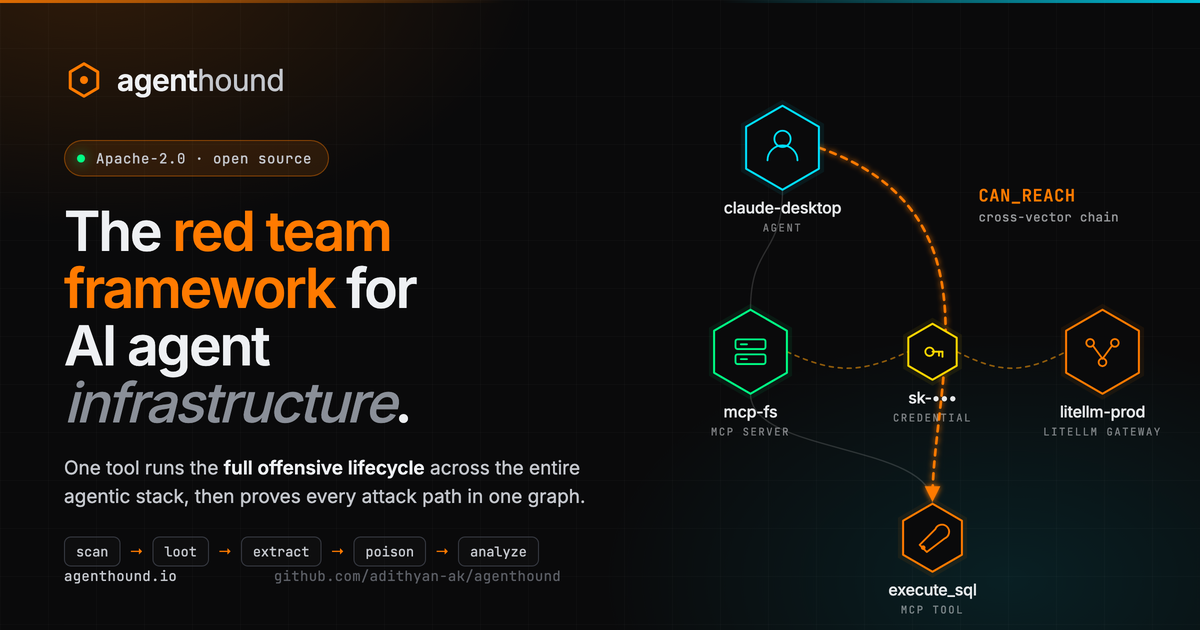
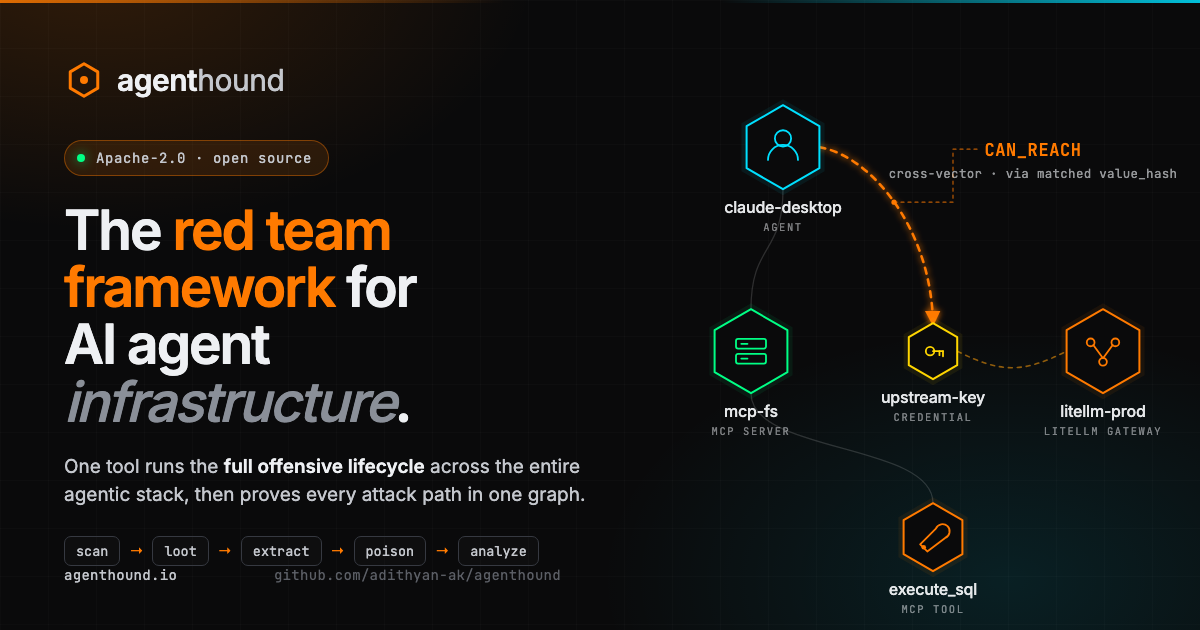
chore: refresh site metadata and social preview

diff --git a/og-template.html b/og-template.html
@@ -1,7 +1,8 @@
-<!doctype html>
+<!DOCTYPE html>
 <html lang="en">
 <head>
 <meta charset="utf-8">
+<title>AgentHound — The red team framework for AI agent infrastructure</title>
 <link rel="preconnect" href="https://fonts.googleapis.com">
 <link rel="preconnect" href="https://fonts.gstatic.com" crossorigin>
 <link href="https://fonts.googleapis.com/css2?family=Inter:wght@400;500;600;700&amp;family=JetBrains+Mono:wght@400;500;600&amp;display=swap" rel="stylesheet">
@@ -117,7 +118,7 @@
   var nodes=[
     {id:'claude',label:'claude-desktop',kind:'agent',r:42,x:150,y:96},
     {id:'mcp',   label:'mcp-fs',        kind:'mcp',  r:42,x:118,y:300},
-    {id:'cred',  label:'sk-•••',        kind:'cred', r:28,x:300,y:300},
+    {id:'cred',  label:'upstream-key',  kind:'cred', r:28,x:300,y:300},
     {id:'gw',    label:'litellm-prod',  kind:'gw',   r:42,x:470,y:300},
     {id:'tool',  label:'execute_sql',   kind:'tool', r:34,x:300,y:486}
   ];
@@ -150,13 +151,12 @@
   }
   edge(bot(byId.claude),top(byId.mcp),{stroke:'rgba(234,235,238,.16)','stroke-width':'1.3'});
   edge(bot(byId.mcp),top(byId.tool),{stroke:'rgba(234,235,238,.16)','stroke-width':'1.3'});
-  credEdge(byId.mcp,byId.cred);
   credEdge(byId.cred,byId.gw);
 
-  // CAN_REACH arc: claude -> through cred -> execute_sql
-  var s=lat(byId.claude,'r'),t=top(byId.tool),via=byId.cred;
+  // CAN_REACH composite edge: AgentInstance -> upstream Credential
+  var s=lat(byId.claude,'r'),t=top(byId.cred);
   var reach=el('path',{fill:'none',stroke:'#ff7a00','stroke-width':'2.6','stroke-linecap':'round','stroke-dasharray':'6 6','marker-end':'url(#ah)',filter:'url(#glow)',
-    d:'M '+s.x+' '+s.y+' C '+(via.x+70)+' '+(s.y+64)+' '+via.x+' '+(via.y+34)+' '+t.x+' '+(t.y-5)});
+    d:'M '+s.x+' '+s.y+' C 236 104 298 175 '+t.x+' '+t.y});
   gE.appendChild(reach);
 
   // node icons (compact)
@@ -184,9 +184,11 @@
 
   // CAN_REACH annotation
   var an=el('g',{});
-  var ax=346,ay=150;
-  an.appendChild(el('text',{x:ax,y:ay,fill:'#ff7a00','font-family':'JetBrains Mono,monospace','font-size':'17','font-weight':'600','letter-spacing':'.6px'})).textContent='CAN_REACH';
-  an.appendChild(el('text',{x:ax,y:ay+20,fill:'rgba(238,240,243,.62)','font-family':'JetBrains Mono,monospace','font-size':'12.5','letter-spacing':'.3px'})).textContent='cross-vector chain';
+  var ax=400,ay=105;
+  an.appendChild(el('path',{d:'M 261 151 H 320 V 98 H 345',fill:'none',stroke:'rgba(255,122,0,.72)','stroke-width':'1.2','stroke-dasharray':'3 4','stroke-linecap':'round','stroke-linejoin':'round'}));
+  an.appendChild(el('circle',{cx:'261',cy:'151',r:'2.6',fill:'#ff7a00'}));
+  an.appendChild(el('text',{x:ax,y:ay,fill:'#ff7a00','font-family':'JetBrains Mono,monospace','font-size':'17','font-weight':'600','letter-spacing':'.6px','text-anchor':'middle'})).textContent='CAN_REACH';
+  an.appendChild(el('text',{x:ax,y:ay+22,fill:'rgba(238,240,243,.62)','font-family':'JetBrains Mono,monospace','font-size':'12.5','letter-spacing':'.3px','text-anchor':'middle'})).textContent='cross-vector · via matched value_hash';
   svg.appendChild(an);
 })();
 </script>

diff --git a/404.html b/404.html
@@ -1,10 +1,10 @@
-<!doctype html>
+<!DOCTYPE html>
 <html lang="en">
 <head>
   <meta charset="utf-8">
   <title>Not found · AgentHound</title>
   <meta name="viewport" content="width=device-width,initial-scale=1">
-  <meta http-equiv="refresh" content="0; url=/">
+  <meta name="robots" content="noindex">
 
   <!-- Google tag (gtag.js) -->
   <script async src="https://www.googletagmanager.com/gtag/js?id=G-8PELQE0F6W"></script>
@@ -14,16 +14,17 @@
     gtag('js', new Date());
     gtag('config', 'G-8PELQE0F6W');
   </script>
-  <link rel="canonical" href="https://agenthound.io/">
   <style>
-    html,body{margin:0;background:#07080b;color:#e7e9ee;font:14px/1.5 ui-sans-serif,system-ui,sans-serif;height:100%}
-    body{display:flex;align-items:center;justify-content:center;text-align:center;padding:2rem}
+    *{box-sizing:border-box}
+    html,body{margin:0;background:#07080b;color:#e7e9ee;font:14px/1.5 ui-sans-serif,system-ui,sans-serif;min-height:100%}
+    body{display:flex;align-items:center;justify-content:center;text-align:center;padding:2rem;min-height:100vh}
+    h1{font-weight:500;letter-spacing:-.02em}
     a{color:#9CCC65;text-decoration:none}
   </style>
 </head>
 <body>
   <div>
-    <h1 style="font-weight:500;letter-spacing:-.02em">404</h1>
+    <h1>404</h1>
     <p>That path isn't on the graph. <a href="/">Back to agenthound.io →</a></p>
   </div>
 </body>

diff --git a/README.md b/README.md
@@ -11,6 +11,12 @@ python3 -m http.server 8000
 # open http://localhost:8000
 ```
 
+## Verify
+
+```bash
+npx --yes html-validate index.html 404.html og-template.html
+```
+
 ## Deploy
 
 1. Push to `main` on the GitHub repo backing the site.
@@ -24,7 +30,9 @@ python3 -m http.server 8000
 ## Files
 
 - `index.html` - the page (HTML, CSS, JS inline)
-- `404.html` - fallback that redirects to `/`
+- `404.html` - crawl-safe not-found page with a route back home
+- `.htmlvalidate.json` - static HTML validation rules
+- `LICENSE` - Apache License 2.0
 - `og.png` - Open Graph / Twitter card (1200×630)
 - `og-template.html` - source for `og.png` (re-render with headless Chrome at 1200×630)
 - `robots.txt` - crawler rules + sitemap pointer